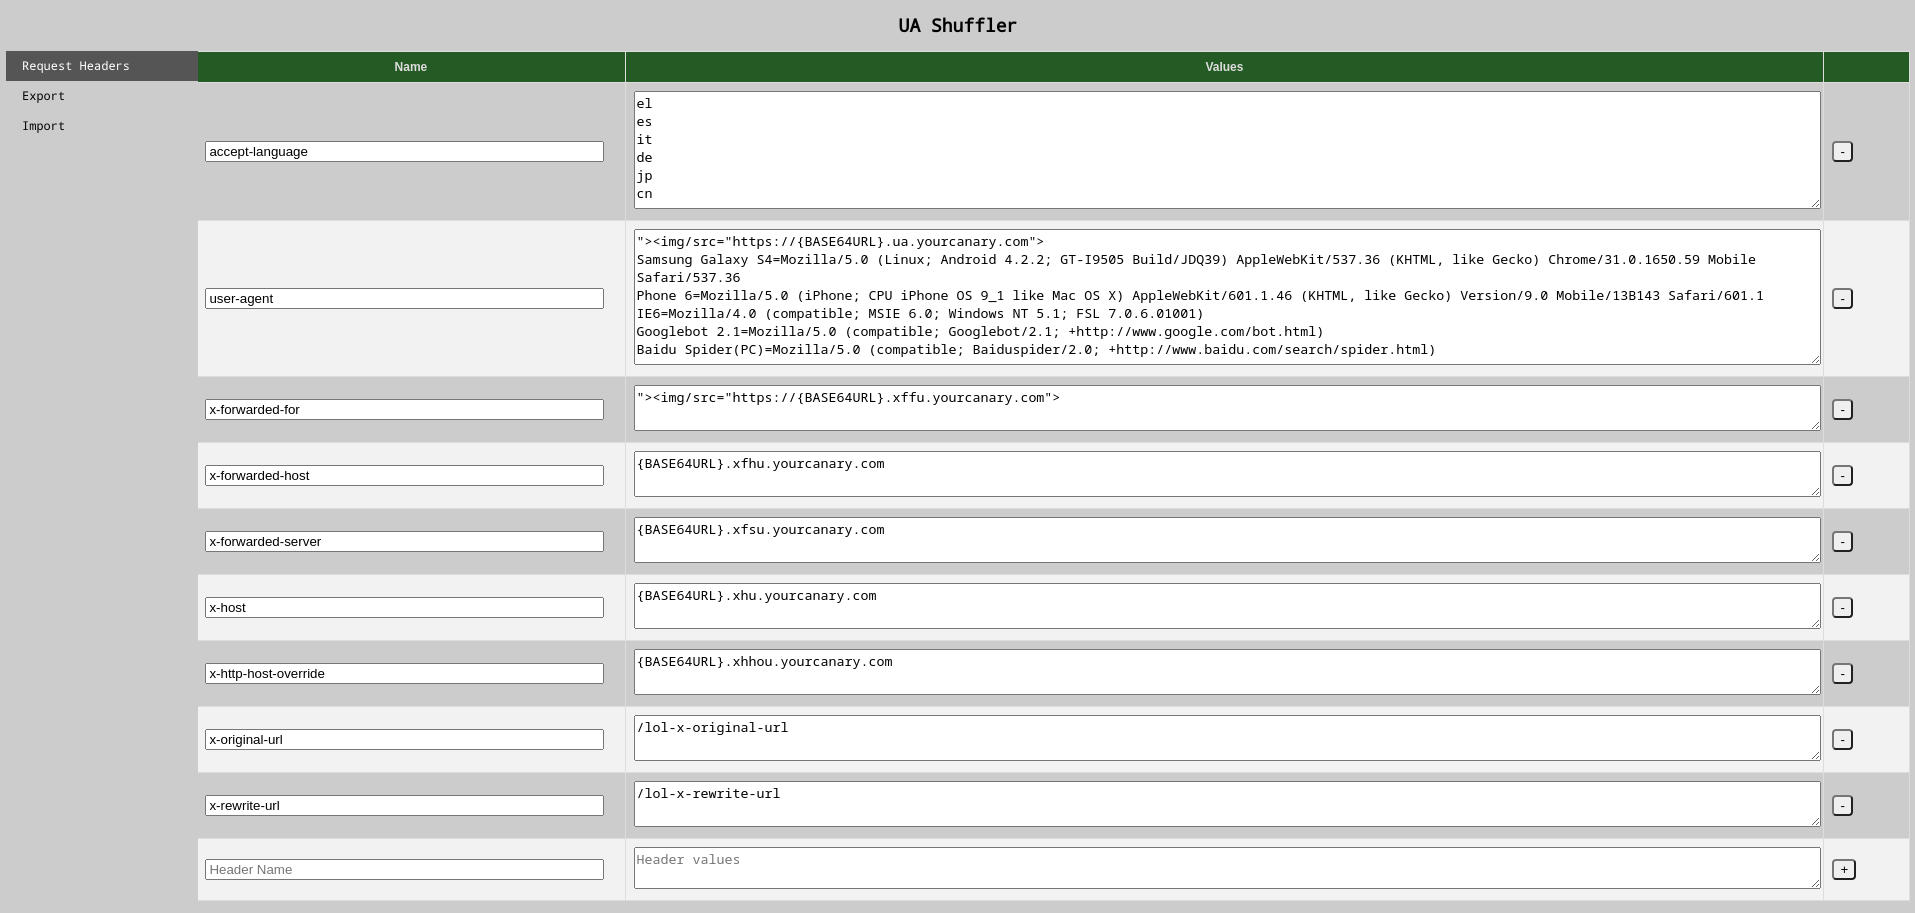
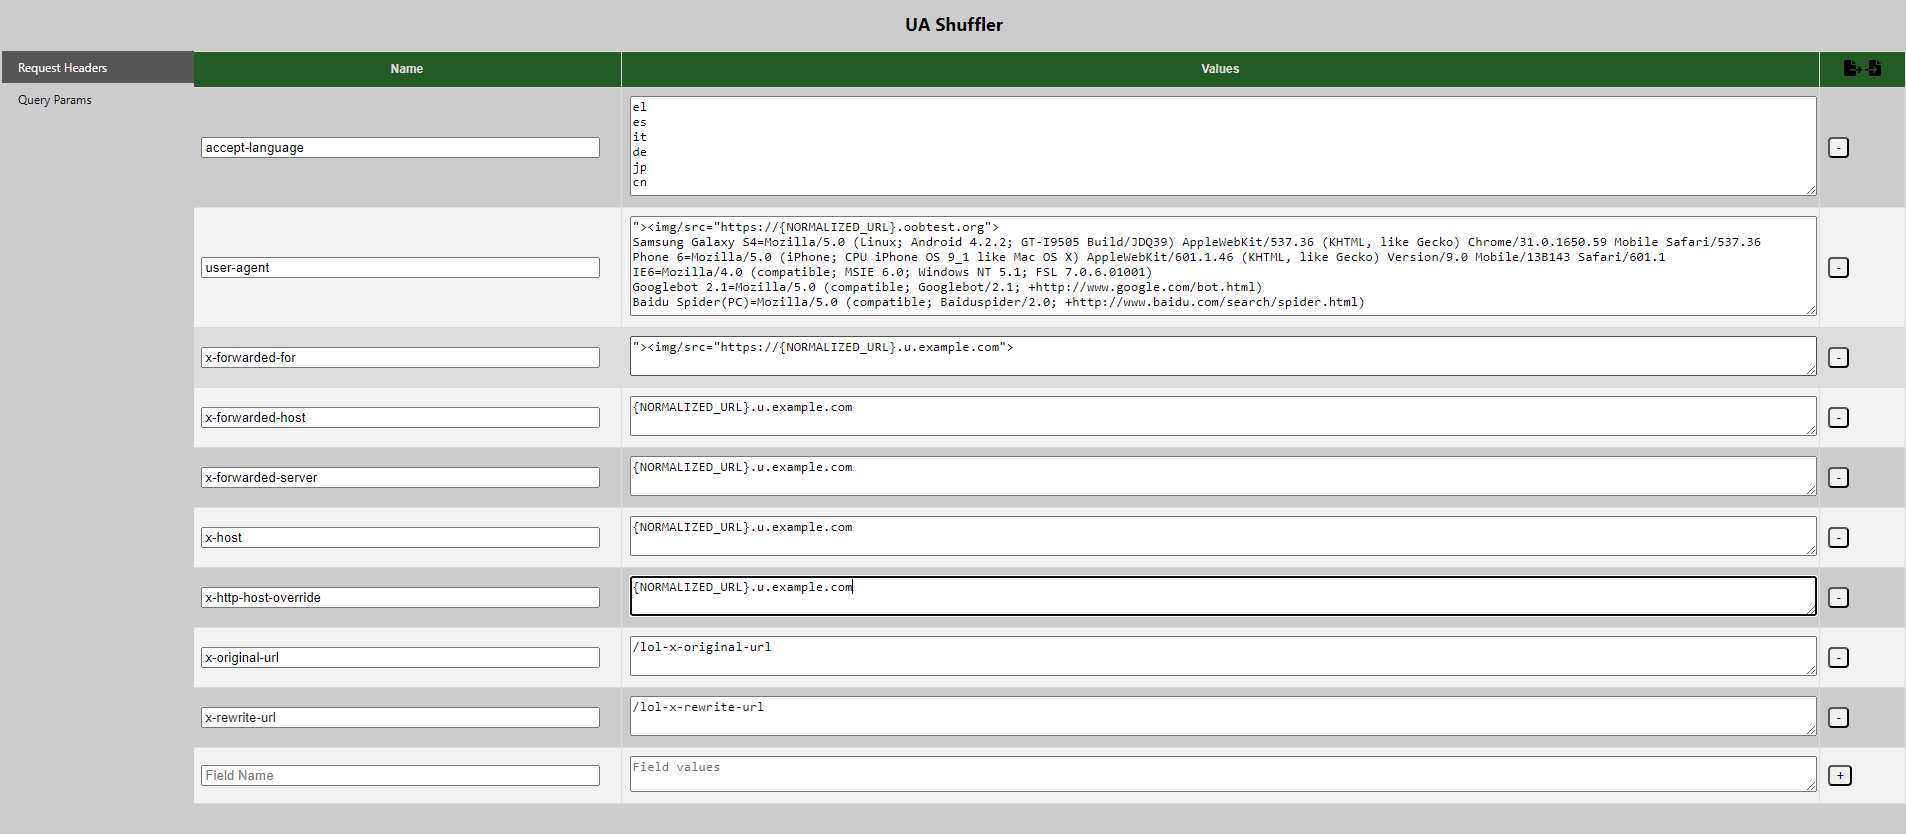
updated images

diff --git a/README.md b/README.md
@@ -6,9 +6,11 @@ ua-shuffler is a chrome extension that lets you specify request headers with a l
 
 +support for cache buster insertion on every request
 
+![popup](images/popup.png)
+
 ![options](images/options.png)
 
-![popup](images/popup.png)
+![options2](images/options2.png)
 
 ### Installation Instructions
 - Clone Repo or Download Zip 
